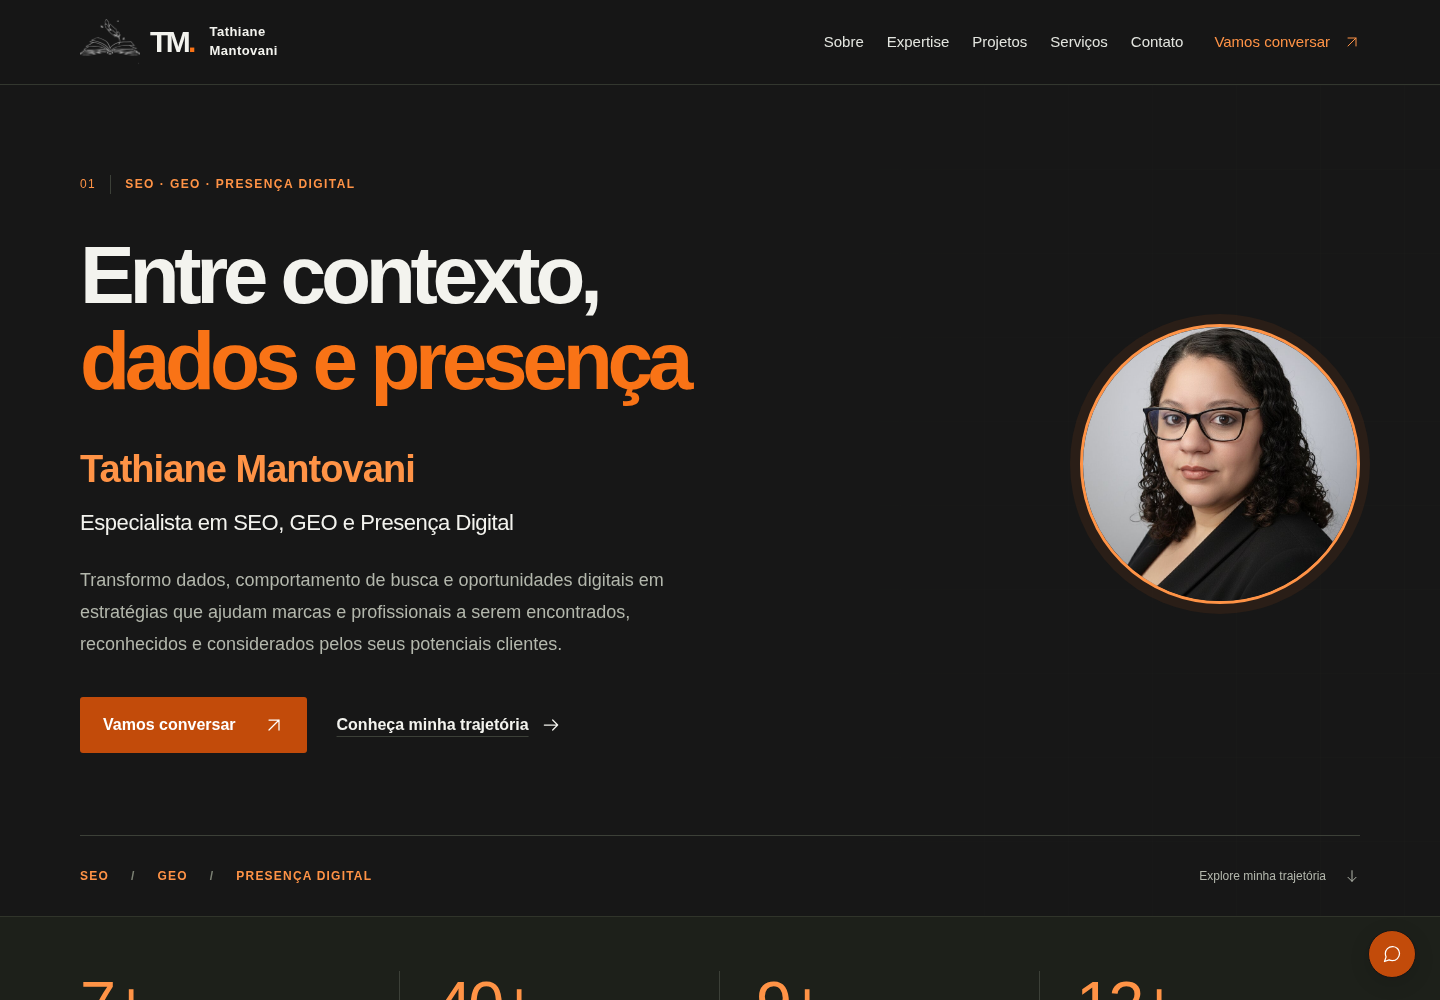
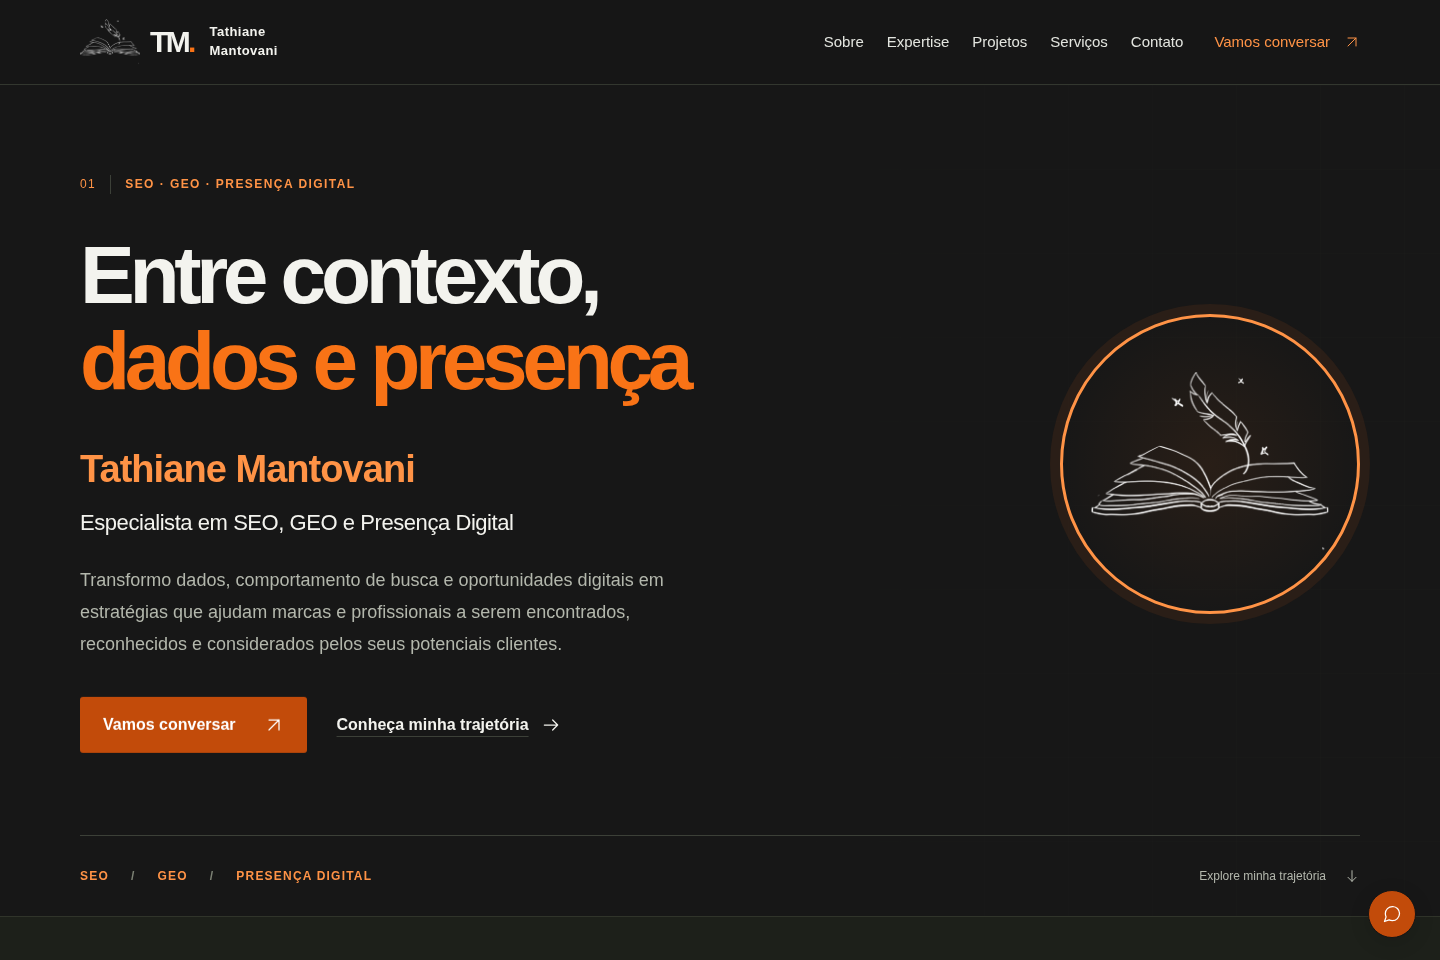
Destaca ilustração e ajusta públicos e reputação

diff --git a/src/styles/global.css b/src/styles/global.css
@@ -106,12 +106,12 @@ main:focus { outline: none; }
 .hero-scroll { display: inline-flex; align-items: center; gap: 18px; padding-block: 8px; font-size: 12px; color: var(--muted); }
 .hero-scroll:hover { color: var(--orange-light); }
 .hero-scroll svg { width: 16px; height: 16px; }
-.hero--with-portrait .hero-inner { grid-template-columns: minmax(0, 1fr) 280px; gap: 64px; }
-.hero--with-portrait .hero-title { font-size: clamp(3rem, 5.7vw, 6rem); }
-.hero--with-portrait .hero-introduction { grid-template-columns: 1fr; gap: 24px; }
-.hero--with-portrait .hero-bottom { margin-top: 18px; }
-.hero-portrait { width: 280px; height: 280px; justify-self: end; align-self: center; position: relative; }
-.hero-portrait img { width: 100%; height: 100%; aspect-ratio: 1; object-fit: cover; object-position: center 25%; border-radius: 50%; border: 3px solid var(--orange-light); box-shadow: 0 0 0 10px #f9731615; }
+.hero--with-illustration .hero-inner { grid-template-columns: minmax(0, 1fr) 300px; gap: 64px; }
+.hero--with-illustration .hero-title { font-size: clamp(3rem, 5.7vw, 6rem); }
+.hero--with-illustration .hero-introduction { grid-template-columns: 1fr; gap: 24px; }
+.hero--with-illustration .hero-bottom { margin-top: 18px; }
+.hero-illustration { display: grid; place-items: center; width: 300px; height: 300px; padding: 28px; justify-self: end; align-self: center; border: 3px solid var(--orange-light); border-radius: 50%; background: radial-gradient(circle at center, #f9731614, transparent 75%); box-shadow: 0 0 0 10px #f9731615; }
+.hero-illustration img { width: 100%; height: auto; object-fit: contain; filter: invert(1); }
 
 .stats-section { padding-block: 54px 66px; background: #1d201a; border-top: 1px solid #30342a; }
 .stats-strip { display: grid; grid-template-columns: repeat(4, minmax(0, 1fr)); }
@@ -247,10 +247,10 @@ main:focus { outline: none; }
   .hero { padding-top: 64px; }
   .hero-title { font-size: clamp(3rem, 8.8vw, 5.7rem); }
   .hero-introduction { gap: 36px; margin-top: 36px; }
-  .hero--with-portrait .hero-inner { grid-template-columns: minmax(0, 1fr) 200px; gap: 32px; }
-  .hero-portrait { width: 200px; height: 200px; }
-  .hero--with-portrait .hero-title { font-size: clamp(2.5rem, 5vw, 4rem); }
-  .hero--with-portrait .hero-actions { gap: 16px; }
+  .hero--with-illustration .hero-inner { grid-template-columns: minmax(0, 1fr) 240px; gap: 32px; }
+  .hero-illustration { width: 240px; height: 240px; padding: 22px; }
+  .hero--with-illustration .hero-title { font-size: clamp(2.5rem, 5vw, 4rem); }
+  .hero--with-illustration .hero-actions { gap: 16px; }
   .hero-bottom { margin-top: 54px; }
   .stats-section { padding-block: 42px; }
   .stats-item { padding-inline: 22px; }
@@ -272,6 +272,11 @@ main:focus { outline: none; }
   .contact-title { font-size: 2.8rem; }
   .footer-inner { flex-wrap: wrap; gap: 24px; }
   .footer-copyright { order: 3; width: 100%; }
+}
+@media (max-width: 740px) {
+  .hero--with-illustration .hero-inner { grid-template-columns: 1fr; gap: 30px; }
+  .hero-illustration { justify-self: center; }
+  .hero--with-illustration .hero-bottom { margin-top: 0; }
 }
 @media (max-width: 600px) {
   .container { width: calc(100% - 40px); }
@@ -301,10 +306,8 @@ main:focus { outline: none; }
   .hero-specialties li + li::before { margin-right: 10px; }
   .hero-scroll { font-size: 0; gap: 0; }
   .hero-scroll svg { width: 18px; height: 18px; }
-  .hero--with-portrait .hero-inner { grid-template-columns: 1fr; gap: 30px; }
-  .hero--with-portrait .hero-title { font-size: clamp(2.6rem, 9.3vw, 3.5rem); }
-  .hero-portrait { width: 160px; height: 160px; max-width: none; justify-self: center; }
-  .hero--with-portrait .hero-bottom { margin-top: 0; }
+  .hero--with-illustration .hero-title { font-size: clamp(2.6rem, 9.3vw, 3.5rem); }
+  .hero-illustration { width: 220px; height: 220px; padding: 20px; justify-self: center; }
   .stats-section { padding-block: 36px; }
   .stats-strip { grid-template-columns: repeat(2, minmax(0, 1fr)); gap: 30px 0; }
   .stats-item { padding-inline: 24px; }

diff --git a/src/data/site.ts b/src/data/site.ts
@@ -344,8 +344,8 @@ export const site: SiteContent = {
         description: 'Estratégia de busca e conteúdo considerando idiomas, públicos e características de diferentes mercados.',
       },
       {
-        title: 'Reputação',
-        description: 'Análise da presença pública e da consistência das informações que ajudam as pessoas a conhecer e avaliar um negócio ou profissional.',
+        title: 'Marca e reputação',
+        description: 'Análise da presença digital, do sentimento do público e das avaliações públicas para identificar percepções, fortalecer a marca e orientar ações de reputação.',
       },
     ],
   },
@@ -422,7 +422,7 @@ export const site: SiteContent = {
     examplesLabel: 'Para quem',
     items: [
       {
-        title: 'Pequenos empreendedores em marketplaces e redes sociais',
+        title: 'Empreendedores digitais',
         examples: 'Empreendedores que vendem em marketplaces ou pelas redes sociais.',
         description: 'Organização da presença e das informações de produtos e serviços para apoiar a descoberta por potenciais clientes nessas plataformas.',
       },

diff --git a/docs/revisao/README.md b/docs/revisao/README.md
@@ -6,12 +6,14 @@ Esta pasta disponibiliza capturas e instruções para revisão. O site já está
 
 - [Início no desktop](desktop.png)
 - [Início no celular](mobile.png)
+- [Expertise e marca e reputação](expertise.png)
+- [Públicos atendidos](publicos.png)
 - [Sobre e formação](formacao.png)
 - [Depoimentos aprovados](depoimentos.png)
 
 As capturas mostram esta revisão, gerada a partir do build estático. Para conferir toda a página, use os comandos abaixo. Os oito depoimentos foram aprovados pela titular e incorporam as citações e os vínculos fornecidos para esta revisão; a página reúne as onze seções previstas.
 
-A revisão atual apresenta fotografia menor e circular, ilustração original de livro e pena integrada à marca no cabeçalho e no rodapé, doze itens de expertise e doze serviços. O Sobre mantém cinco diferenciais, sem o bloco de trajetória; sua formação exibe somente nomes de duas graduações e dez especializações.
+A revisão atual apresenta a ilustração original de livro e pena no hero, em uma moldura circular com contorno laranja, e na marca do cabeçalho e do rodapé. A fotografia permanece no repositório como acervo e não aparece no site. A página reúne doze itens de expertise e doze serviços. O Sobre mantém cinco diferenciais, sem o bloco de trajetória; sua formação exibe somente nomes de duas graduações e dez especializações.
 
 ## Baixar e visualizar
 
@@ -28,7 +30,7 @@ Abra no navegador do mesmo computador o endereço exibido pelo terminal. Esses c
 
 O conteúdo está em `src/data/site.ts`; o visual fica em `src/styles/global.css`. A frase visível do início vem de `hero.headingLines`. Os depoimentos ficam em `testimonials.items`; `pendenteRevisao` oculta e `aprovado` inclui o registro na página. Os oito registros atuais já foram aprovados. Alterar o status atualiza a prévia e os próximos builds, sem iniciar um deploy por si só.
 
-Os originais já estão incluídos em `public/images/foto-tathiane.jpg` (867 × 1024 px) e `public/images/ilustracao-livro-pena.png` (981 × 756 px). Ao substituir as imagens, atualize suas dimensões nos dados e revise o enquadramento. `src/components/Brand.astro` integra a ilustração original à marca.
+Os originais já estão incluídos em `public/images/foto-tathiane.jpg` (867 × 1024 px, acervo sem exibição) e `public/images/ilustracao-livro-pena.png` (981 × 756 px, hero e marca). Ao substituir as imagens, atualize suas dimensões nos dados e revise o enquadramento. `src/components/Brand.astro` integra a ilustração original à marca.
 
 A formação mostra somente nomes. Instituições, períodos e status conhecidos permanecem em `site.ts` como referência editorial, sem aparecer na página. Preserve esses metadados e não invente informações dos novos cursos. Como revisão opcional, é possível ajustar `9+` ou `9` livros, revisar o indicador `12+` de especializações e atualizar a seleção da formação.
 

diff --git a/public/images/README.md b/public/images/README.md
@@ -2,9 +2,9 @@
 
 Esta pasta contém os dois arquivos originais fornecidos pela titular:
 
-- `foto-tathiane.jpg`: fotografia profissional de Tathiane Mantovani, 867 × 1024 px.
-- `ilustracao-livro-pena.png`: ilustração original de livro com pena, 981 × 756 px, com transparência.
+- `foto-tathiane.jpg`: fotografia profissional de Tathiane Mantovani, 867 × 1024 px, mantida como acervo sem exibição no site.
+- `ilustracao-livro-pena.png`: ilustração original de livro com pena, 981 × 756 px, com transparência, exibida no hero e na marca.
 
-O hero usa a fotografia em um recorte circular menor, sem legenda. A ilustração integra a marca no cabeçalho e no rodapé por meio de `src/components/Brand.astro`; o CSS adapta sua cor ao fundo escuro sem alterar o arquivo original. O workflow verifica a presença dos dois arquivos e bloqueia a publicação se algum estiver ausente ou vazio.
+O hero exibe a ilustração dentro de uma moldura circular com contorno laranja. Ela também integra a marca no cabeçalho e no rodapé por meio de `src/components/Brand.astro`; o CSS adapta sua cor ao fundo escuro sem alterar o arquivo original. A fotografia não é renderizada. O workflow verifica a presença dos dois arquivos e bloqueia a publicação se algum estiver ausente ou vazio.
 
 Ao substituir os arquivos, preserve a composição da fotografia e a transparência da ilustração. Atualize as dimensões em `src/data/site.ts`, confira o enquadramento e o contraste e execute um novo build. Não adicione capturas de recomendações, currículo ou outros documentos privados nesta pasta.

diff --git a/README.md b/README.md
@@ -34,7 +34,7 @@ Novos depoimentos ainda não confirmados devem ficar com `status: 'pendenteRevis
 
 As imagens originais fornecidas pela titular estão incluídas em `public/images/`, conforme o [guia de imagens](public/images/README.md): fotografia de 867 × 1024 px e ilustração de 981 × 756 px. Os caminhos, textos alternativos e dimensões ficam em `src/data/site.ts`.
 
-A fotografia aparece menor e circular no hero, sem legenda com o nome. A ilustração original de livro e pena integra a marca no cabeçalho e no rodapé pelo componente `src/components/Brand.astro`; ela foi retirada do Sobre.
+A ilustração original de livro e pena aparece no hero, dentro de uma moldura circular com contorno laranja, e integra a marca no cabeçalho e no rodapé pelo componente `src/components/Brand.astro`. Ela não aparece no Sobre. A fotografia original permanece no repositório como acervo, sem exibição no site.
 
 Ao substituir alguma imagem, atualize `width` e `height` nos dados, revise o enquadramento e execute um novo build. Preserve a composição da fotografia e a transparência da ilustração. As imagens são incluídas somente quando os arquivos existem.
 
